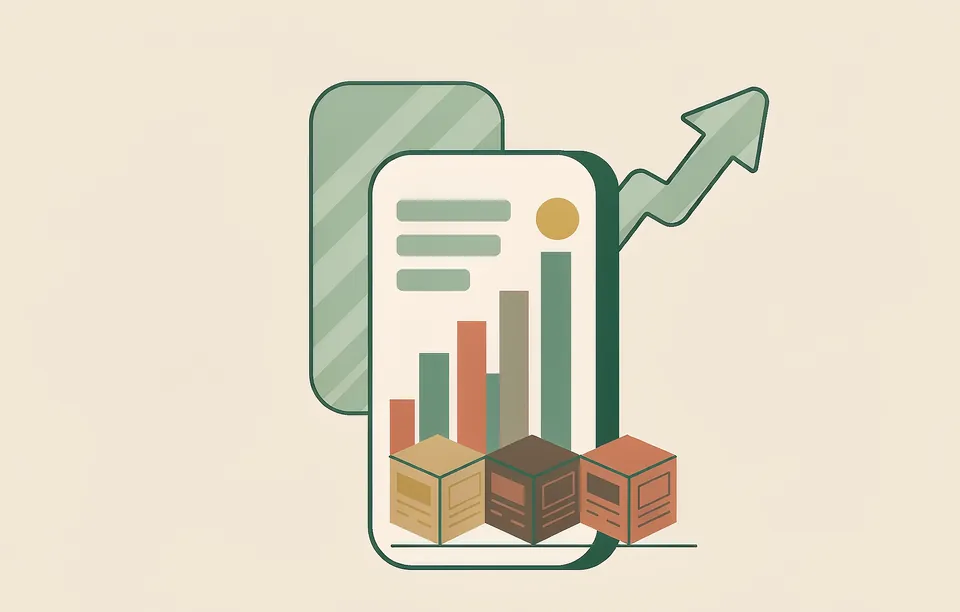
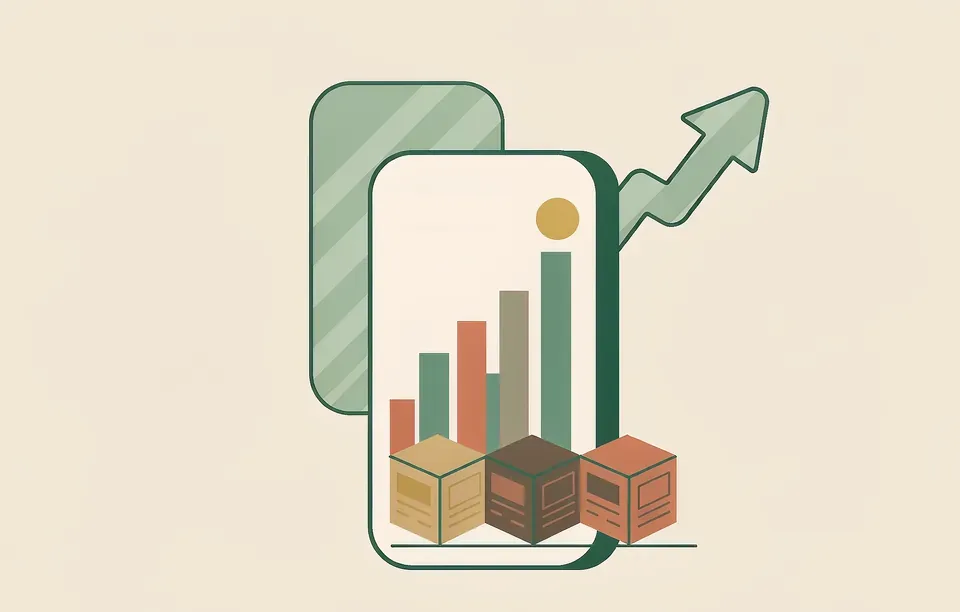
feat: 接入新西兰奶源 5 个信源（Fonterra 走 AEM 接口），market 图擦除伪文字

Changed region(s): [[0.4062, 0.3105, 0.5312, 0.4967]]

diff --git a/pipeline/relevance.py b/pipeline/relevance.py
@@ -39,6 +39,13 @@ KEYWORDS: dict[str, int] = {
     "hmo": 3, "母乳低聚糖": 4, "dha": 2, "ara": 2, "益生菌": 2, "羊奶粉": 4,
     "dairy": 3, "whey": 3, "casein": 2, "lactoferrin": 4, "milk powder": 4,
     "skim milk": 3, "whole milk powder": 4, "raw milk": 3, "herd": 1,
+    # —— 新西兰奶源（2026-10-26 接入 Farmers Weekly / Fonterra / DairyNZ 后补）
+    # 这几家的标题几乎都很短，只写 "milk price"、"payout"、"collections"，
+    # 不补这些词的话，一条讲奶价的稿子只有 "dairy" 的 3 分，过不了 4.0 阈值。
+    "farmgate": 4, "milk price": 4, "milk supply": 4, "milk collection": 4,
+    "milk production": 3, "payout": 3, "new zealand dairy": 4,
+    "dairy farmer": 3, "dairy sector": 3, "dairy export": 3, "dairy cow": 2,
+    "fonterra": 3, "synlait": 3, "open country": 3, "westland milk": 3,
     # —— 政策与监管
     # 注意：这里**故意不收录机构名**（市场监管总局、海关总署、卫健委、FDA、EFSA…）。
     # 因为机构官网的每条新闻标题里都有自家名字，把它当关键词会让该站所有内容
@@ -84,11 +91,14 @@ TAG_RULES: list[tuple[str, list[str]]] = [
     ("市场数据", ["营收", "财报", "业绩", "市占率", "市场份额", "销售额", "增长", "下滑",
                   "销量", "价格", "涨价", "降价", "数据", "报告", "调研",
                   "earnings", "sales", "revenue", "market share", "forecast", "price",
-                  "outlook", "quarter"]),
+                  "outlook", "quarter",
+                  "milk price", "farmgate", "payout", "auction", "gdt"]),
     ("供应链", ["奶源", "原奶", "生鲜乳", "乳清", "乳铁蛋白", "大包粉", "基粉", "牧场",
                 "奶牛", "产能", "工厂", "原料", "供应", "库存", "物流",
                 "dairy", "whey", "lactoferrin", "milk powder", "raw milk", "supply",
-                "ingredient", "plant", "capacity"]),
+                "ingredient", "plant", "capacity",
+                "milk collection", "milk supply", "milk production", "dairy farmer",
+                "dairy cow", "herd", "farm system"]),
     ("跨境电商", ["跨境电商", "保税", "海淘", "代购", "进口", "出口", "跨境",
                   "cross-border", "e-commerce", "import", "export", "bonded"]),
     ("品牌动态", ["达能", "雀巢", "飞鹤", "伊利", "蒙牛", "君乐宝", "爱他美", "美素佳儿",
